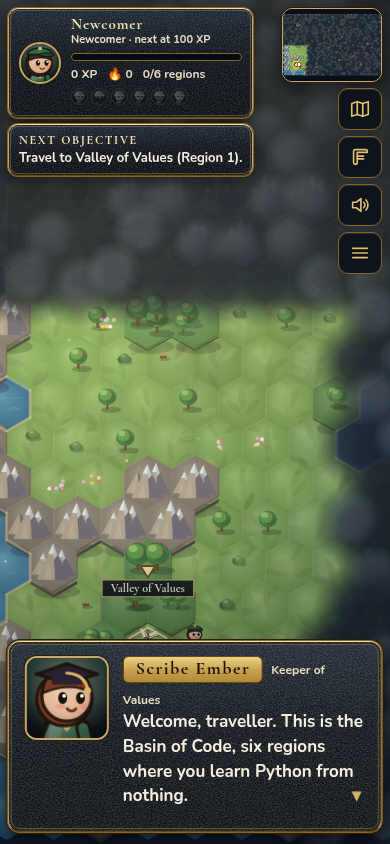
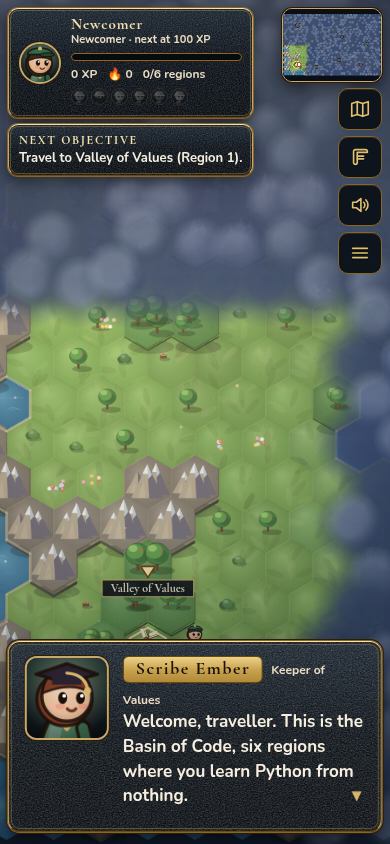
world: softer dusk-blue fog clouds; hero does a celebrate hop when a chime plays (level/trial cleared); refresh AFTER shots

Changed region(s): [[0.0, 0.0, 1.0, 1.0]]

diff --git a/shared/world.js b/shared/world.js
@@ -16,7 +16,7 @@ function bossDone(){return !!(P().boss&&P().boss.done)}
 /* ---------- sound ---------- */
 var AC=null,muted=false,gest=false;try{muted=localStorage.getItem('learning-apps.mute')==='1'}catch(e){}
 function blip(f,d,v,type,f2){if(muted||!gest)return;try{AC=AC||new (window.AudioContext||window.webkitAudioContext)();if(AC.state==='suspended')AC.resume();var o=AC.createOscillator(),g=AC.createGain(),t=AC.currentTime;o.type=type||'sine';o.frequency.setValueAtTime(f,t);if(f2)o.frequency.linearRampToValueAtTime(f2,t+d);g.gain.setValueAtTime(v||.025,t);g.gain.exponentialRampToValueAtTime(.0001,t+d);o.connect(g);g.connect(AC.destination);o.start(t);o.stop(t+d+.02)}catch(e){}}
-function chime(){try{if(!FX.low&&window.LQAnim&&st&&st.hero)LQAnim.burst(st.hero.x,st.hero.y-S*.8)}catch(e){}blip(660,.25,.04,'triangle',880);setTimeout(function(){blip(990,.4,.035,'triangle')},120)}
+function chime(){if(st)st.celUntil=st.time+2.4;try{if(!FX.low&&window.LQAnim&&st&&st.hero)LQAnim.burst(st.hero.x,st.hero.y-S*.8)}catch(e){}blip(660,.25,.04,'triangle',880);setTimeout(function(){blip(990,.4,.035,'triangle')},120)}
 /* ---------- scenes ---------- */
 var BIG=[[4,26],[13,27],[22,25],[31,27],[40,25],[42,17],[33,13],[24,15],[15,12],[7,8],[17,4]];
 var BASE8=[[4,21],[12,22],[20,19],[28,21],[31,12],[21,9],[11,10],[5,4]];
@@ -268,9 +268,9 @@ function mkBlob(rad,col0,col1){var c=document.createElement('canvas');c.width=c.
 function syncFog(snap){for(var z=0;z<=NR;z++){st.fogTgt[z]=zoneOpen(z)?0:1;if(snap||st.fog[z]===undefined)st.fog[z]=st.fogTgt[z]}redrawFog(true)}
 /* full effects: fog is drawn at half size with bigger, softer blobs so its edge feathers into the open land */
 function mkFogCv(sc){var k=FX.low?1:.5;sc.fogK=k;sc.fogCv=document.createElement('canvas');sc.fogCv.width=Math.ceil(sc.W*k);sc.fogCv.height=Math.ceil(sc.H*k)}
-function mkSoft(rad){var c=document.createElement('canvas');c.width=c.height=Math.ceil(rad*2);var g=c.getContext('2d'),gr=g.createRadialGradient(rad,rad,0,rad,rad,rad);gr.addColorStop(0,'rgba(26,34,46,.96)');gr.addColorStop(.4,'rgba(26,34,46,.82)');gr.addColorStop(.7,'rgba(26,34,46,.34)');gr.addColorStop(1,'rgba(26,34,46,0)');g.fillStyle=gr;g.fillRect(0,0,c.width,c.height);return c}
+function mkSoft(rad){var c=document.createElement('canvas');c.width=c.height=Math.ceil(rad*2);var g=c.getContext('2d'),gr=g.createRadialGradient(rad,rad,0,rad,rad,rad);gr.addColorStop(0,'rgba(58,74,112,.97)');gr.addColorStop(.4,'rgba(58,74,112,.84)');gr.addColorStop(.7,'rgba(58,74,112,.36)');gr.addColorStop(1,'rgba(58,74,112,0)');g.fillStyle=gr;g.fillRect(0,0,c.width,c.height);return c}
 var blobMode=null;
-function redrawFog(force){var sc=st.world;if(blobMode!==FX.low||!blobA){blobMode=FX.low;blobA=FX.low?mkBlob(S*1.25,'rgba(26,34,46,.95)','rgba(26,34,46,0)'):mkSoft(S*1.7);blobB=mkBlob(S*1.1,'rgba(150,158,170,.32)','rgba(150,158,170,0)')}
+function redrawFog(force){var sc=st.world;if(blobMode!==FX.low||!blobA){blobMode=FX.low;blobA=FX.low?mkBlob(S*1.25,'rgba(26,34,46,.95)','rgba(26,34,46,0)'):mkSoft(S*1.7);blobB=mkBlob(S*1.1,'rgba(200,212,236,.38)','rgba(200,212,236,0)')}
  var fk=sc.fogK||1,fr=FX.low?S*1.25:S*1.7;
  var g=sc.fogCv.getContext('2d');g.setTransform(1,0,0,1,0,0);g.clearRect(0,0,sc.fogCv.width,sc.fogCv.height);g.setTransform(fk,0,0,fk,0,0);for(var r=0;r<sc.rows;r++)for(var c=0;c<sc.cols;c++){var a=st.fog[sc.zone[c][r]];if(a<=.01)continue;var x=hx(c,r),y=hy(r);g.globalAlpha=a;g.drawImage(blobA,x-fr,y-fr);if(Art.hash(c,r,2)<.6){g.globalAlpha=a*.8;g.drawImage(blobB,x-S*1.1+(Art.hash(c,r,3)-.5)*S,y-S*1.1+(Art.hash(c,r,4)-.5)*S)}}g.globalAlpha=1;g.setTransform(1,0,0,1,0,0)}
 /* ---------- main loop / drawing ---------- */
@@ -297,7 +297,7 @@ function draw(){if(!st.scene)return;var sc=st.scene,z=zoom(),vw=CW/z,vh=CH/z,h=s
  sc.objs.forEach(function(o){if(world&&!zoneOpen(sc.zone[o.c][o.r])&&st.fog[sc.zone[o.c][o.r]]>.8)return;list.push({y:hy(o.r),o:o})});
  if(st.mode!=='title')list.push({y:h.y,hero:true});list.sort(function(a,b){return a.y-b.y});
  var w=P().w||{chests:{},caches:{}};
- list.forEach(function(it){if(it.hero){Art.figure(g,h.x,h.y,C.hero,{t:T,moving:!!h.mv,face:h.face});return}
+ list.forEach(function(it){if(it.hero){Art.figure(g,h.x,h.y,C.hero,{t:T,moving:!!h.mv,face:h.face,celebrate:!h.mv&&st.celUntil>T});return}
   var o=it.o,x=hx(o.c,o.r),y=hy(o.r);if(x<cx-90||x>cx+vw+90||y<cy-130||y>cy+vh+90)return;
   if(o.type==='npc'){var fc=h.x<x?-1:1;Art.figure(g,x,y,o.sp.look,{t:T+o.c,face:fc});
    if(Math.abs(h.x-x)<S*3&&Math.abs(h.y-y)<S*3){g.font='700 13px "Cormorant Garamond",Georgia,serif';g.textAlign='center';g.lineWidth=4;g.strokeStyle='rgba(10,15,21,.9)';g.strokeText(o.name,x,y-S*1.45);g.fillStyle='#f3e2b0';g.fillText(o.name,x,y-S*1.45)}}
